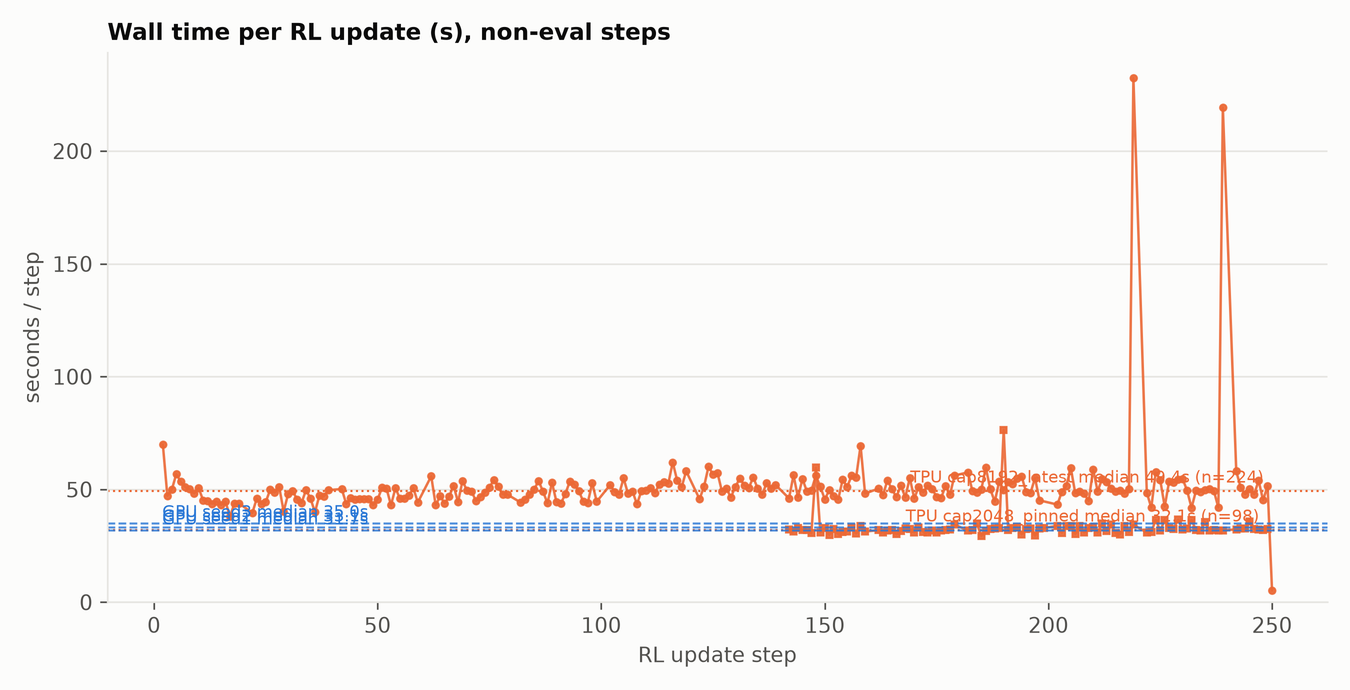
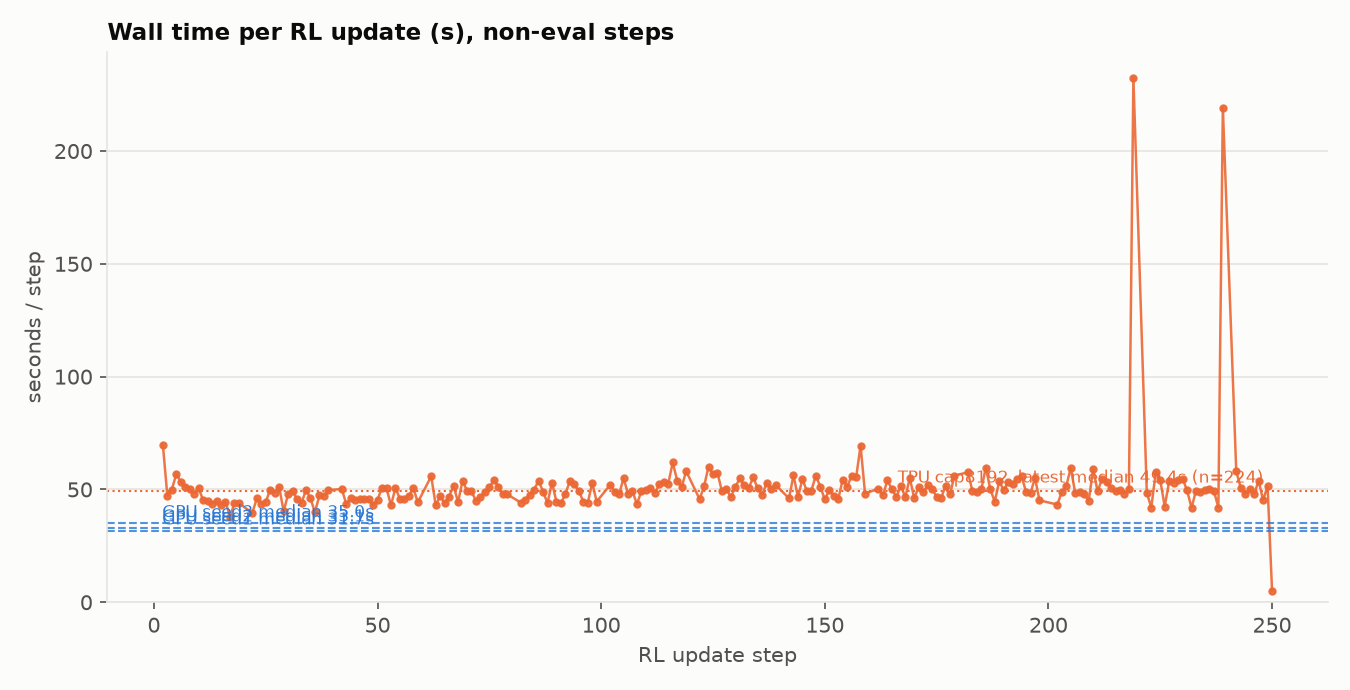
gemma4 cap-8192 parity figures: show the cap-8192 run only (drop the cap-2048 overlay)

diff --git a/gemma4/parity/figures_cap8192/parity_summary.md b/gemma4/parity/figures_cap8192/parity_summary.md
@@ -1,24 +1,24 @@
 # gemma4-E2B GSM8K parity summary
 
-| step | GPU mean ± SD (min–max) | TPU cap8192_latest | TPU cap2048_pinned | TPU mean − GPU mean |
-|---:|---|---|---|---|
-| 0 | 80.31 ± 0.24 (80.14–80.59) | 80.82 [78.6, 82.9] | 81.27 [79.1, 83.3] | +0.73 |
-| 20 | 91.03 ± 0.53 (90.52–91.58) | 91.21 [89.6, 92.6] | 91.66 [90.0, 93.0] | +0.40 |
-| 40 | 91.69 ± 1.07 (90.45–92.34) | 91.51 [89.9, 92.9] | 91.05 [89.4, 92.5] | -0.40 |
-| 60 | 91.36 ± 0.23 (91.13–91.58) | 92.04 [90.5, 93.4] | 91.43 [89.8, 92.8] | +0.38 |
-| 80 | 91.84 ± 0.53 (91.28–92.34) | 92.80 [91.3, 94.1] | 91.36 [89.7, 92.8] | +0.24 |
-| 100 | 91.64 ± 0.16 (91.51–91.81) | 92.72 [91.2, 94.0] | 91.66 [90.0, 93.0] | +0.56 |
-| 120 | 92.04 ± 0.55 (91.43–92.49) | 91.96 [90.4, 93.3] | 92.57 [91.0, 93.9] | +0.23 |
-| 140 | 92.67 ± 0.12 (92.57–92.80) | 92.27 [90.7, 93.6] | 91.96 [90.4, 93.3] | -0.56 |
-| 160 | 92.77 ± 0.19 (92.57–92.95) | 91.96 [90.4, 93.3] | 92.19 [90.6, 93.5] | -0.69 |
-| 180 | 92.52 ± 0.23 (92.27–92.72) | 92.19 [90.6, 93.5] | 91.96 [90.4, 93.3] | -0.44 |
-| 200 | 92.65 ± 0.15 (92.49–92.80) | 91.36 [89.7, 92.8] | 91.81 [90.2, 93.2] | -1.06 |
-| 220 | 92.60 ± 0.24 (92.42–92.87) | 92.04 [90.5, 93.4] | 92.12 [90.5, 93.5] | -0.52 |
-| 240 | 92.65 ± 0.42 (92.19–93.03) | 92.34 [90.8, 93.7] | 92.27 [90.7, 93.6] | -0.34 |
-| 250 | 92.42 ± 0.42 (91.96–92.80) | 91.81 [90.2, 93.2] | 92.42 [90.9, 93.7] | -0.30 |
+| step | GPU mean ± SD (min–max) | TPU cap8192_latest | TPU mean − GPU mean |
+|---:|---|---|---|
+| 0 | 80.31 ± 0.24 (80.14–80.59) | 80.82 [78.6, 82.9] | +0.51 |
+| 20 | 91.03 ± 0.53 (90.52–91.58) | 91.21 [89.6, 92.6] | +0.18 |
+| 40 | 91.69 ± 1.07 (90.45–92.34) | 91.51 [89.9, 92.9] | -0.18 |
+| 60 | 91.36 ± 0.23 (91.13–91.58) | 92.04 [90.5, 93.4] | +0.68 |
+| 80 | 91.84 ± 0.53 (91.28–92.34) | 92.80 [91.3, 94.1] | +0.96 |
+| 100 | 91.64 ± 0.16 (91.51–91.81) | 92.72 [91.2, 94.0] | +1.09 |
+| 120 | 92.04 ± 0.55 (91.43–92.49) | 91.96 [90.4, 93.3] | -0.08 |
+| 140 | 92.67 ± 0.12 (92.57–92.80) | 92.27 [90.7, 93.6] | -0.40 |
+| 160 | 92.77 ± 0.19 (92.57–92.95) | 91.96 [90.4, 93.3] | -0.81 |
+| 180 | 92.52 ± 0.23 (92.27–92.72) | 92.19 [90.6, 93.5] | -0.33 |
+| 200 | 92.65 ± 0.15 (92.49–92.80) | 91.36 [89.7, 92.8] | -1.29 |
+| 220 | 92.60 ± 0.24 (92.42–92.87) | 92.04 [90.5, 93.4] | -0.56 |
+| 240 | 92.65 ± 0.42 (92.19–93.03) | 92.34 [90.8, 93.7] | -0.30 |
+| 250 | 92.42 ± 0.42 (91.96–92.80) | 91.81 [90.2, 93.2] | -0.61 |
 
 Gate: step-250 TPU mean ≥ 91.42 (GPU step-250 mean 92.42 − 1 pp).
-TPU step-250: 91.81, 92.42 → mean **92.12** → **PASS** (2 of 3 seeds).
+TPU step-250: 91.81 → mean **91.81** → **PASS** (1 of 3 seeds).
 
 ## Step time (non-eval updates)
 
@@ -28,4 +28,3 @@ TPU step-250: 91.81, 92.42 → mean **92.12** → **PASS** (2 of 3 seeds).
 | GPU seed2 | 33.1 | 34.9 | 44.5 | 218 |
 | GPU seed3 | 35.0 | 35.4 | 42.3 | 218 |
 | TPU cap8192_latest | 49.4 | 50.9 | 55.3 | 224 |
-| TPU cap2048_pinned | 32.1 | 33.0 | 34.6 | 98 |
